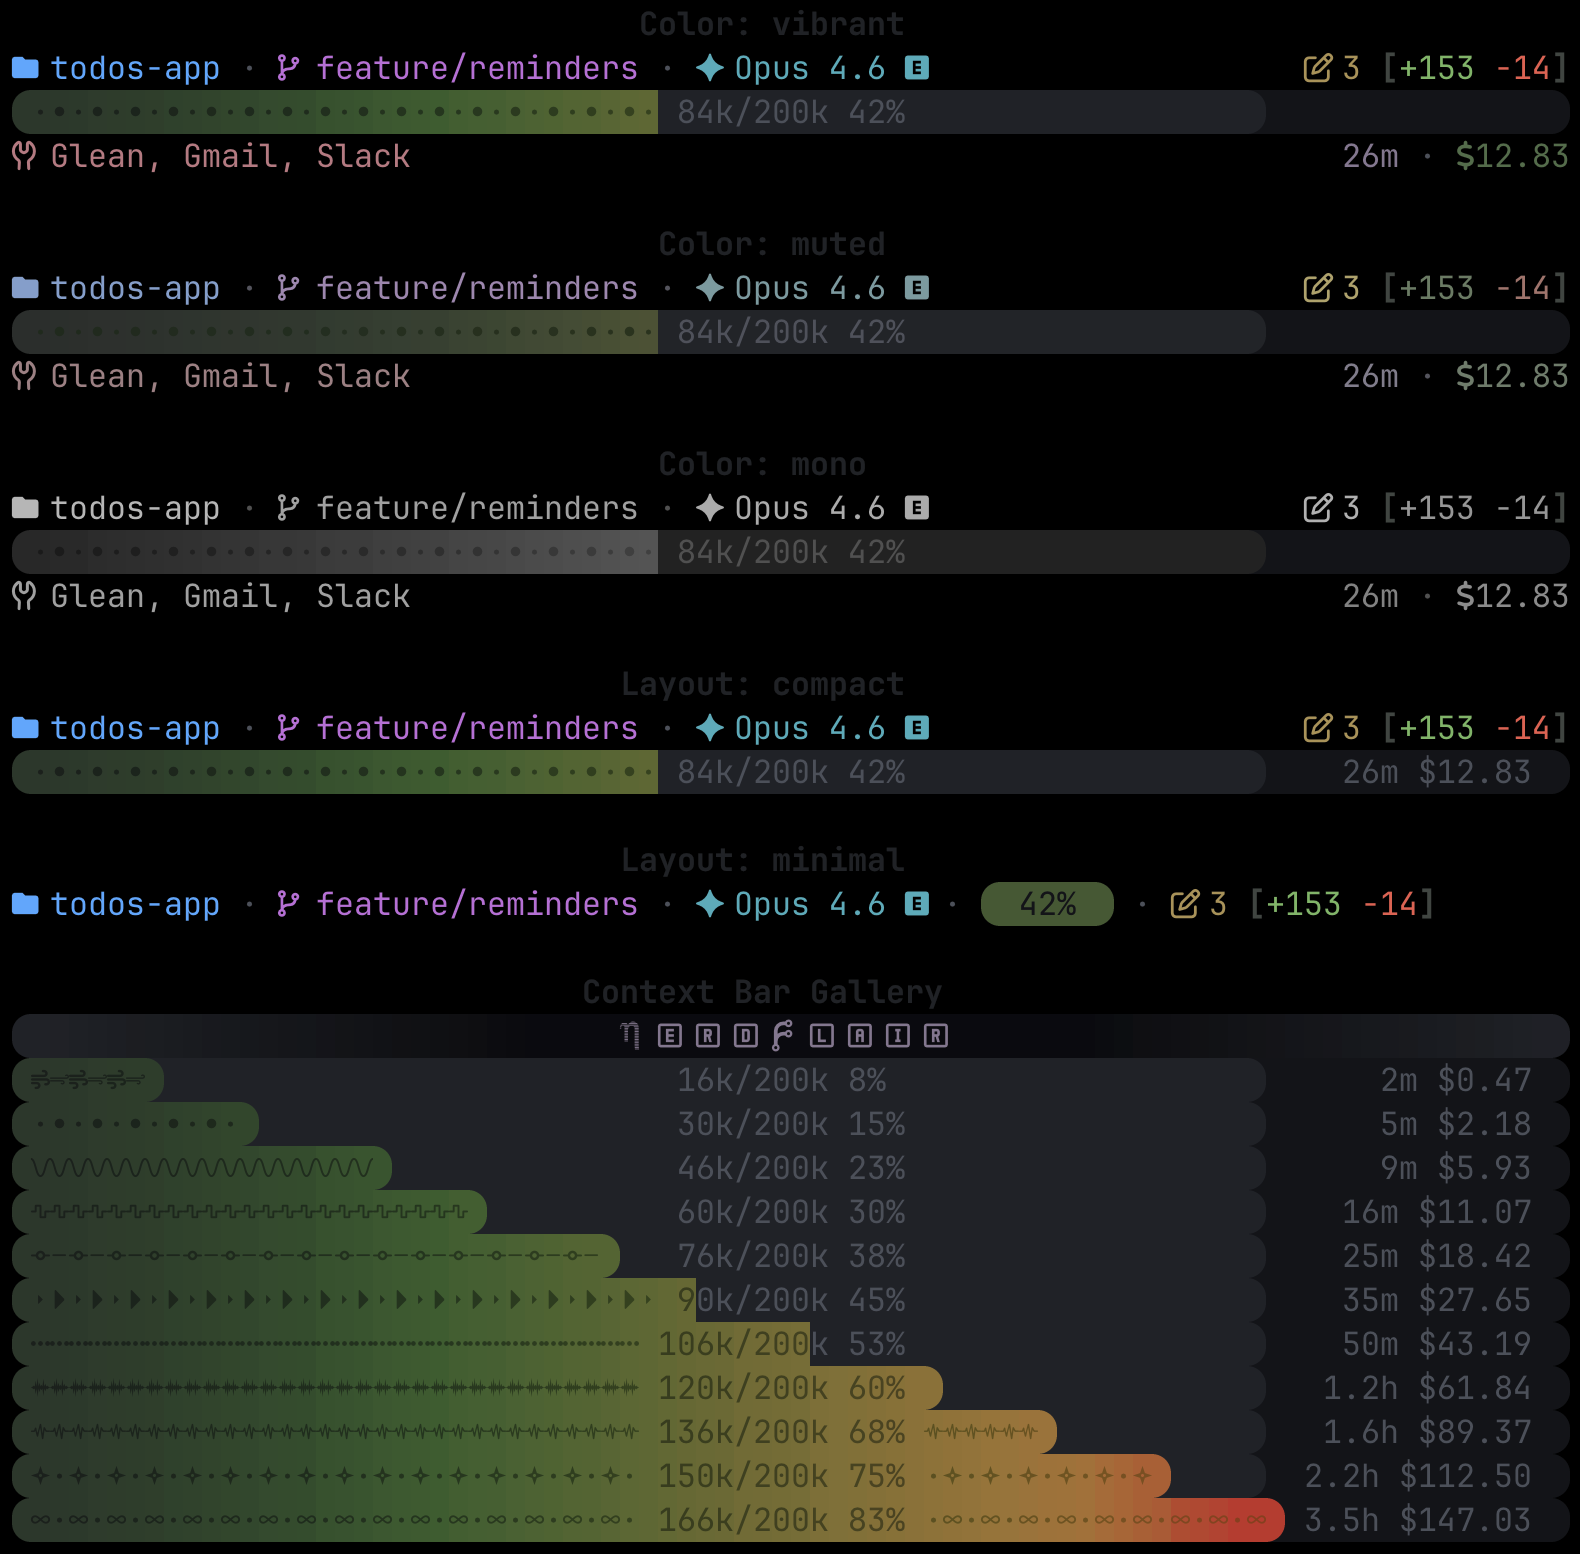
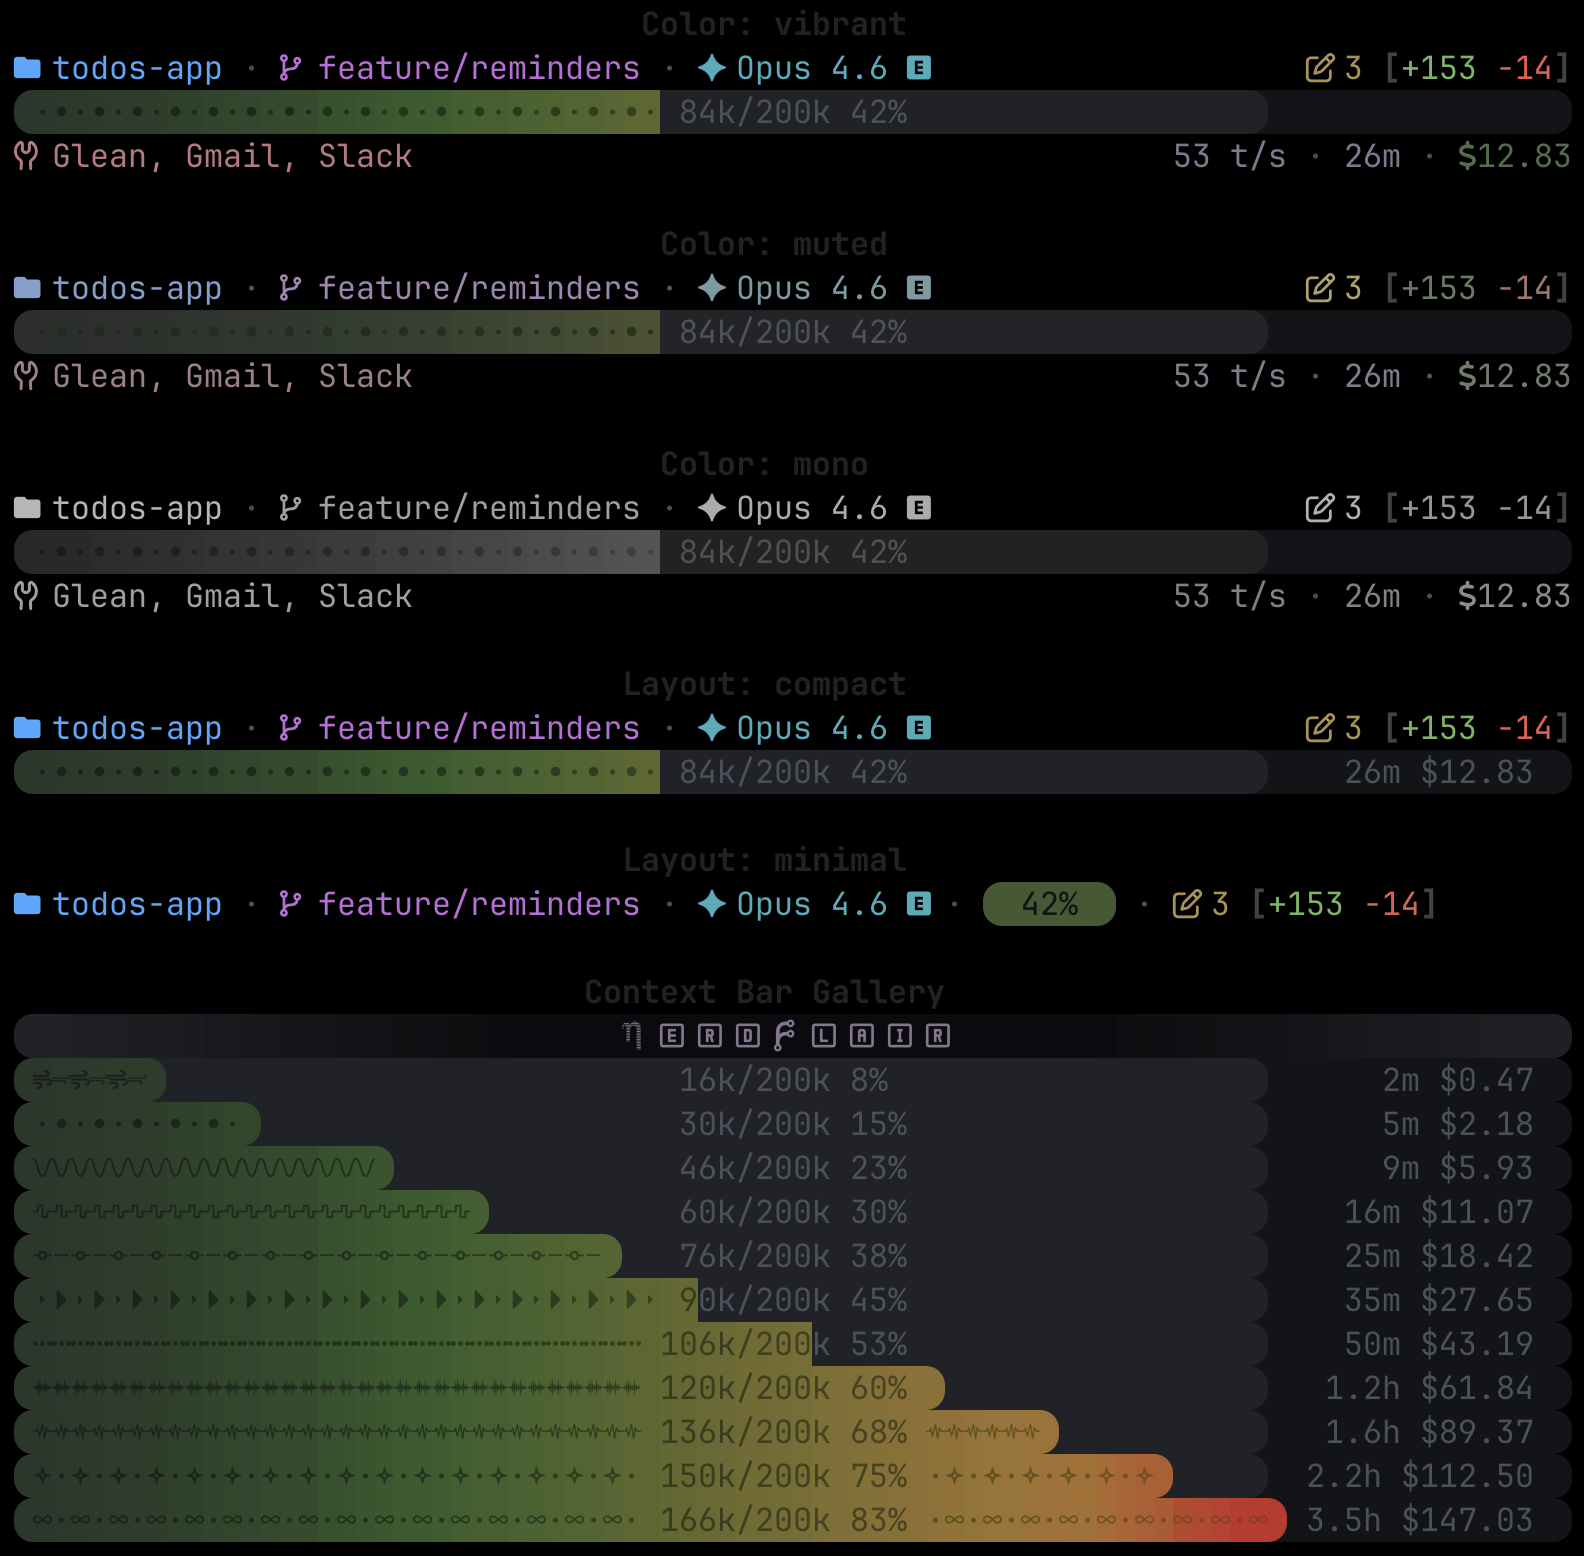
Tweaks

diff --git a/README.md b/README.md
@@ -46,7 +46,7 @@ Restart Claude Code after install for the changes to take effect.
 - Git branch, files edited, and lines added/removed
 - Model name with output style indicator
 - Active MCP servers
-- Session cost and API duration
+- Session cost, API duration, and token throughput
 
 
 ## Prerequisites
